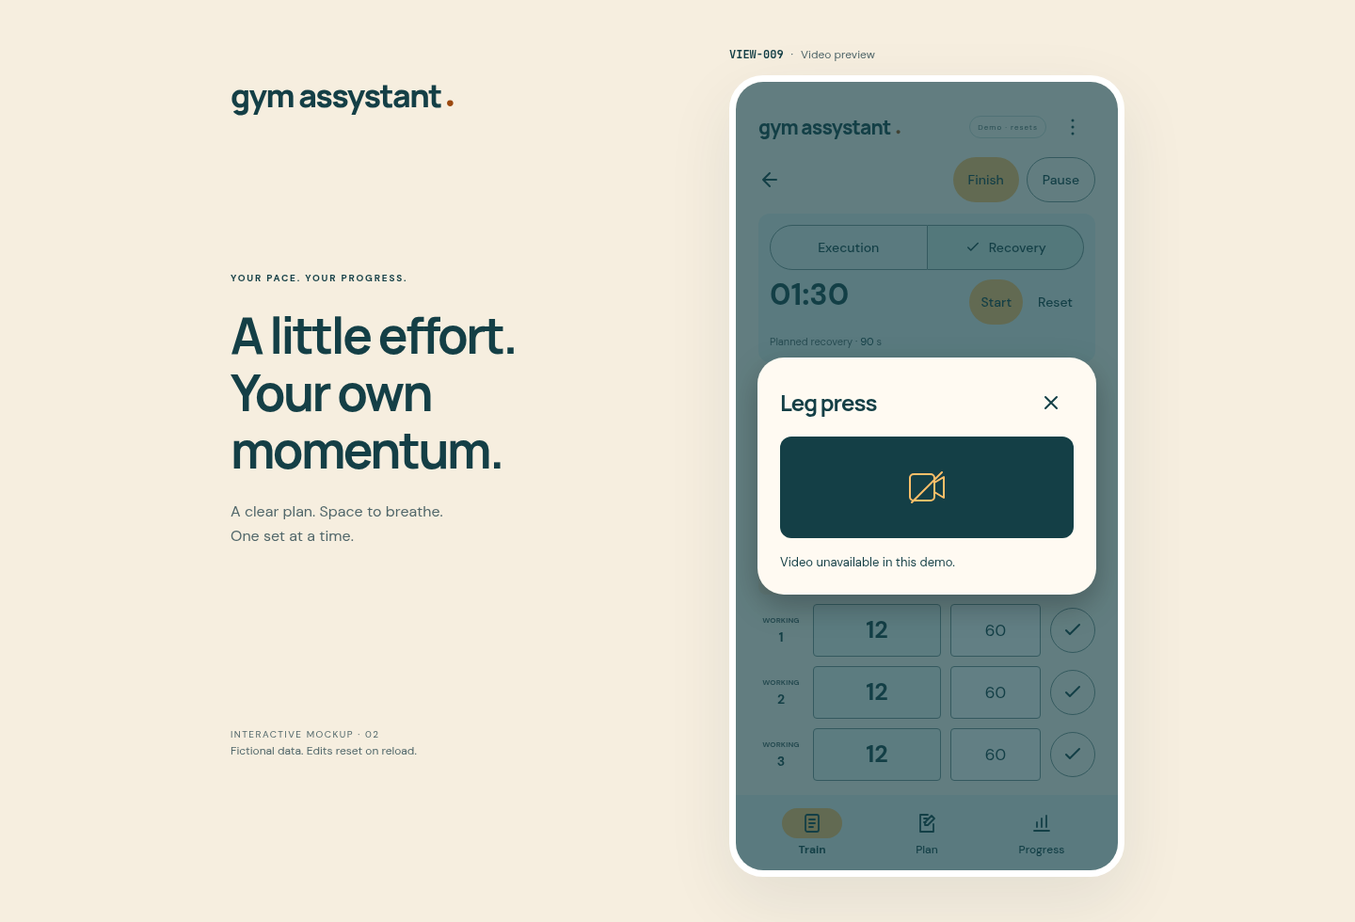
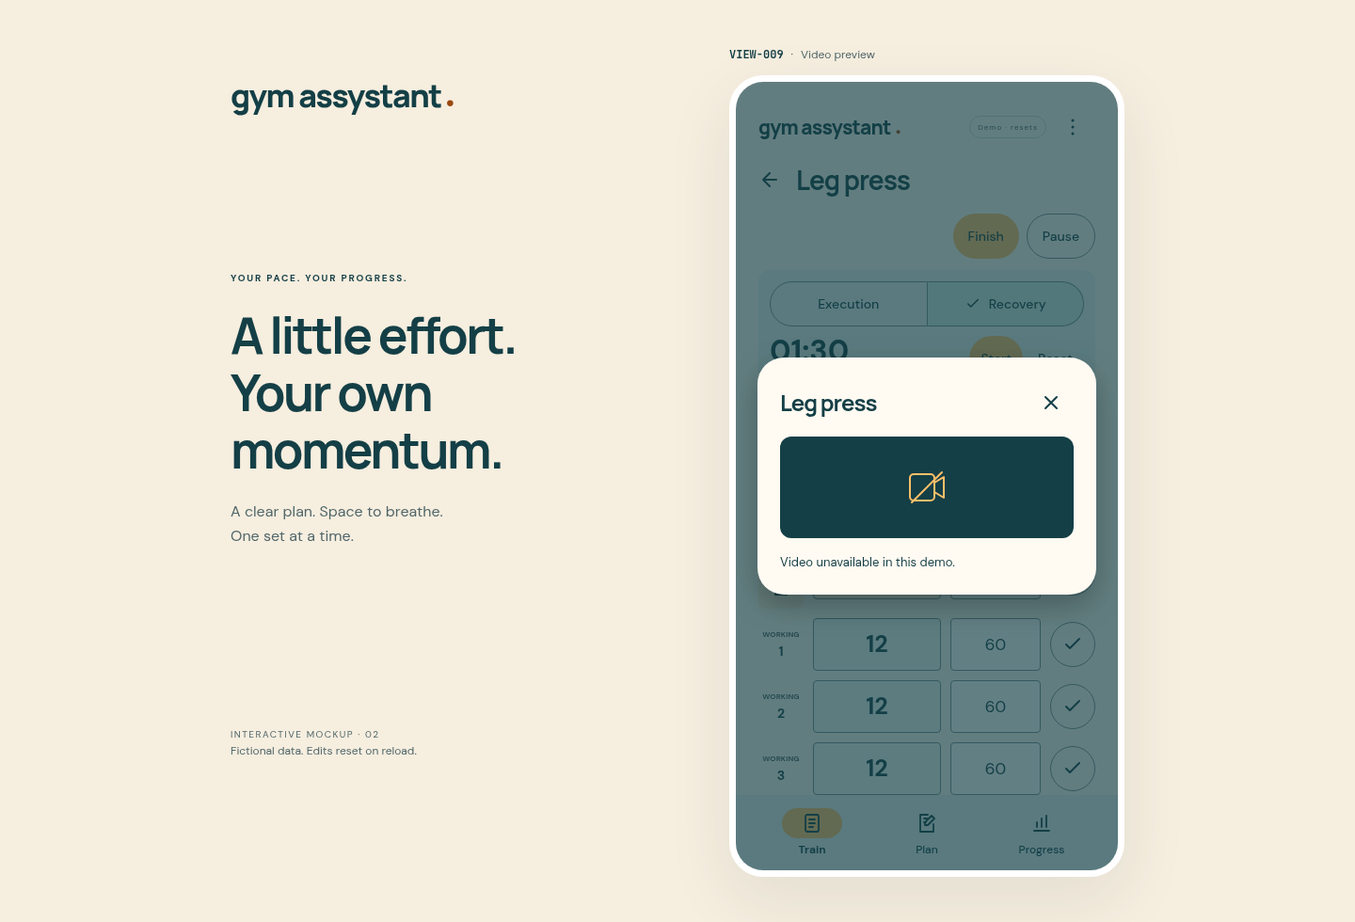
fix(mockup): put exercise name beside back arrow
Align VIEW-003 with the shared detail heading, keep lifecycle actions below
and omit their empty row for Ready sessions. Update specification, reverse
traceability and reviewed previews.

Refs: GYM-009, GYM-017
Validation: Chromium workflow suite; 320/390/430px heading and long-name
checks; light/dark and lifecycle previews; repository documentation links.

diff --git a/prototypes/web/index.html b/prototypes/web/index.html
@@ -19,9 +19,9 @@
 <div class="section-heading" data-req="GYM-016"><h3>Coming up</h3></div><div id="upcomingSessions" data-req="GYM-016"></div>
 </section>
 <section id="session" data-mockup-ref="VIEW-002" data-mockup-name="Session" data-view hidden data-req="GYM-001 GYM-008 GYM-019"><div class="secondary-heading" data-req="GYM-025"><button class="md-icon-button" id="backProgram" aria-label="Back to Train calendar"><svg class="button-icon" viewBox="0 0 24 24" aria-hidden="true" focusable="false"><path d="M19 12H5m7-7-7 7 7 7"/></svg></button><h2 id="sessionName"></h2></div><p class="muted" id="sessionFocus"></p><div class="session-start" data-req="GYM-017"><div class="session-actions"><button id="startSession" class="md-button md-filled">Start session</button><button id="finishSession" class="md-button md-filled" aria-label="Finish session" hidden>Finish</button><button id="pauseSession" class="md-button md-outlined session-pause" aria-label="Pause session" hidden>Pause</button></div><p id="sessionStatus" class="field-help" role="status">Ready</p></div><p id="attendanceStatus" class="field-help" data-req="GYM-020"></p><div class="section-heading"><h3>Exercises</h3><span id="sessionCount"></span></div><div id="exerciseList"></div><p id="executionOrderStatus" class="sr-only" role="status" data-req="GYM-019"></p></section>
-<section id="exercise" data-mockup-ref="VIEW-003" data-mockup-name="Exercise" data-view hidden data-req="GYM-001 GYM-009"><div class="exercise-navigation" data-req="GYM-017"><button class="md-icon-button" id="back" aria-label="Back to session"><svg class="button-icon" viewBox="0 0 24 24" aria-hidden="true" focusable="false"><path d="M19 12H5m7-7-7 7 7 7"/></svg></button><div class="exercise-session-actions"><span id="exerciseSessionStatus" class="field-help" hidden></span><button id="finishExerciseSession" class="md-button md-filled" aria-label="Finish session" hidden>Finish</button><button id="pauseExerciseSession" class="md-button md-outlined session-pause" aria-label="Pause session" hidden>Pause</button></div></div>
+<section id="exercise" data-mockup-ref="VIEW-003" data-mockup-name="Exercise" data-view hidden data-req="GYM-001 GYM-009"><div class="secondary-heading" data-req="GYM-009"><button class="md-icon-button" id="back" aria-label="Back to session"><svg class="button-icon" viewBox="0 0 24 24" aria-hidden="true" focusable="false"><path d="M19 12H5m7-7-7 7 7 7"/></svg></button><h2 id="exerciseName"></h2></div><div id="exerciseSessionActions" class="exercise-session-actions" data-req="GYM-009 GYM-017" hidden><span id="exerciseSessionStatus" class="field-help" hidden></span><button id="finishExerciseSession" class="md-button md-filled" aria-label="Finish session" hidden>Finish</button><button id="pauseExerciseSession" class="md-button md-outlined session-pause" aria-label="Pause session" hidden>Pause</button></div>
 <div class="timer-panel" data-req="GYM-012"><div class="timer-tabs" role="group" aria-label="Timer type"><button id="executionMode" class="md-segment" aria-pressed="true"><span class="segment-check"><svg class="button-icon" viewBox="0 0 24 24" aria-hidden="true" focusable="false"><path d="m5 12 4 4L19 6"/></svg></span>Execution</button><button id="recoveryMode" class="md-segment" aria-pressed="false"><span class="segment-check"><svg class="button-icon" viewBox="0 0 24 24" aria-hidden="true" focusable="false"><path d="m5 12 4 4L19 6"/></svg></span>Recovery</button></div><div class="timer-display"><output id="timerValue" aria-label="Execution elapsed time" aria-live="off">00:00</output><span id="timerStatus" class="sr-only" role="status">Ready</span></div><p id="recoverySettings" class="field-help" hidden>Planned recovery · <span id="recoverySeconds">90</span> s</p><div class="timer-actions"><button id="timerToggle" class="md-button md-filled">Start</button><button id="timerReset" class="md-button md-text">Reset</button></div><p class="field-help" id="timerContext">For this exercise · manual controls</p></div>
-<h2 id="exerciseName"></h2><p class="prescription" id="prescription" data-req="GYM-008"></p>
+<p class="prescription" id="prescription" data-req="GYM-008"></p>
 <div class="section-heading set-heading" data-req="GYM-004 GYM-005 GYM-014"><h3>Sets</h3><span id="setCount" aria-live="polite"></span><button id="addWarmup" class="md-button md-text" aria-label="Add warm-up set"><svg class="button-icon" viewBox="0 0 24 24" aria-hidden="true" focusable="false"><path d="M12 5v14M5 12h14"/></svg>Warm-up</button></div>
 <div class="set-labels" data-req="GYM-004 GYM-014"><span>SET</span><span>REPS</span><span>KG</span><span>DONE</span></div><div id="sets" data-req="GYM-004 GYM-005 GYM-014"></div>
 

diff --git a/prototypes/web/css/style.css b/prototypes/web/css/style.css
@@ -220,7 +220,6 @@ input::placeholder { color: var(--on-surface-variant); opacity: 1; }
 .session-actions { display: flex; flex-wrap: wrap; align-items: center; gap: 8px; }
 .session-actions #startSession { width: auto; flex: 1 1 170px; }
 .session-pause { flex-shrink: 0; }
-.exercise-navigation { display: flex; align-items: center; justify-content: space-between; gap: 12px; margin-bottom: 18px; }
 
 /* GYM-018: prescriptions and schedule editing have their own Plan destination. */
 .plan-input { display: block; width: 100%; margin-bottom: 18px; padding: 12px; border: 1px solid var(--outline); border-radius: 4px; color: var(--on-surface); background: var(--surface-bright); font-size: 14px; }
@@ -271,8 +270,7 @@ h2, h3, .exercise-card strong { overflow-wrap: anywhere; }
 .attendance-card .field-help:last-child { margin-bottom: 0; }
 
 /* GYM-017: both lifecycle actions fit narrow exercise screens. */
-.exercise-navigation { flex-wrap: wrap; }
-.exercise-session-actions { display: flex; flex-wrap: wrap; gap: 8px; margin-left: auto; }
+.exercise-session-actions { display: flex; justify-content: flex-end; gap: 8px; margin-bottom: 12px; }
 .session-actions #finishSession { flex: 1 1 170px; }
 /* GYM-017: preserve recorded-value contrast during read-only review. */
 .finished-review input:disabled { opacity: 1; }
@@ -286,7 +284,6 @@ h2, h3, .exercise-card strong { overflow-wrap: anywhere; }
 .session-start { margin-bottom: 12px; }
 #sessionStatus { font-size: 12px; margin-block: 10px 0; }
 #sessionFocus { margin-bottom: 16px; }
-.exercise-navigation { flex-wrap: nowrap; margin-bottom: 12px; }
 .exercise-session-actions { align-items: center; flex-wrap: nowrap; }
 .exercise-session-actions .md-button { padding-inline: 16px; }
 .exercise-session-actions .field-help { margin: 0; }
@@ -404,12 +401,11 @@ header { position: relative; z-index: 2; padding-bottom: 0; min-height: 48px; }
 .secondary-heading h2 { margin: 0; }
 @media (max-width: 350px) { header { gap: 4px; } .overflow-menu { right: 16px; } .header-actions { gap: 0; } }
 
-/* GYM-025: consistent secondary headings and explicit read-only presentation. */
+/* GYM-009, GYM-025: consistent Back/name headings and explicit read-only presentation. */
 .secondary-heading { justify-content: flex-start; gap: 4px; min-height: 48px; }
 .secondary-heading h2 { min-width: 0; flex: 1; }
 .page-heading.secondary-heading { gap: 4px; }
 .page-heading.secondary-heading .save-plan { flex-shrink: 0; }
-.exercise-navigation { margin-left: -12px; }
 .finished-review .set-row input:disabled, .finished-review .seat-input:disabled, .finished-review #recoverySeconds:disabled { border-color: transparent; background: transparent; }
 .set-status { display: grid; place-items: center; width: 48px; height: 48px; color: var(--on-surface-variant); font-size: 20px; }
 .set-status.is-complete { color: var(--success); }

diff --git a/prototypes/web/js/app.js b/prototypes/web/js/app.js
@@ -148,13 +148,14 @@ function renderSets() {
   byId('sets').innerHTML = exercise().warmups.map((set, index) => setRow(set, index, 'warmups')).join('') + exercise().sets.map((set, index) => setRow(set, index, 'sets')).join('');
   if (session().state === 'finished') byId('sets').querySelectorAll('input,button').forEach(control => { control.disabled = true; });
 }
-// GYM-001, GYM-003, GYM-008, GYM-012
+// GYM-001, GYM-003, GYM-008, GYM-009, GYM-012, GYM-017
 function renderExercise() {
   byId('exercise').classList.toggle('finished-review', session().state === 'finished');
   byId('exerciseName').textContent = exercise().name;
   byId('prescription').textContent = `Target: ${exercise().sets.length} sets × ${exercise().target} reps`;
   byId('back').innerHTML = buttonIcon('back');
   byId('back').setAttribute('aria-label', `Back to ${session().name}`);
+  byId('exerciseSessionActions').hidden = session().state === 'ready';
   byId('exerciseSessionStatus').textContent = GymSession.labels[session().state];
   byId('exerciseSessionStatus').hidden = !['paused', 'finished'].includes(session().state);
   byId('pauseExerciseSession').hidden = session().state !== 'inProgress';

diff --git a/docs/product/traceability.md b/docs/product/traceability.md
@@ -1,8 +1,8 @@
 # Bidirectional traceability
 
-Revision 19. All Android delivery is **not started**. “Covered” below means the disposable mockup meets the acceptance criteria in [spec.md](spec.md), not that the Android product is implemented. Search a requirement ID in source comments or `data-req` attributes to trace code back to scope.
+Revision 20. All Android delivery is **not started**. “Covered” below means the disposable mockup meets the acceptance criteria in [spec.md](spec.md), not that the Android product is implemented. Search a requirement ID in source comments or `data-req` attributes to trace code back to scope.
 
-Revision 19 improves the GYM-010 plot presentation in VIEW-007; the labelled plot, point inspection and dense-date panning are verified in the mockup. Revision 18 fixed the selected-day card dimensions in VIEW-001 under GYM-016. Revision 17 introduced external view references, planned recovery, drag-handle sorting and deliberate plan changes. The reference strip is mockup presentation only; native delivery remains not started.
+Revision 20 refines the GYM-009 exercise heading in VIEW-003: the exercise name sits beside Back, with session actions and timers below. Revision 19 improves the GYM-010 plot presentation in VIEW-007; the labelled plot, point inspection and dense-date panning are verified in the mockup. Revision 18 fixed the selected-day card dimensions in VIEW-001 under GYM-016. Revision 17 introduced external view references, planned recovery, drag-handle sorting and deliberate plan changes. The reference strip is mockup presentation only; native delivery remains not started.
 
 | Requirement | Source anchors / artifact | Verification | Mockup state |
 | --- | --- | --- | --- |
@@ -14,7 +14,7 @@ Revision 19 improves the GYM-010 plot presentation in VIEW-007; the labelled plo
 | GYM-006 | `index.html`: phone-owned dialog shells/cards; `dialogs.js`: native modal opening and resize/scroll alignment; `style.css`: clipped phone scrim and scrollable cards; `references.js`: presentation observer; `index.html`: external strip and stable view metadata; `app.js`: `showView`/video/activation opening; `settings.js`: folder opening | Browser: all 12 stable references, popup priority/restoration, external selectable strip, language/theme/reload invariance; desktop/phone popup bounds, short-height internal scrolling, native focus/Escape/scrim dismissal and trigger return; 320/390/430px, focus/navigation, reload reset, no page errors | Covered |
 | GYM-007 | `index.html`: browser title, wordmarks | Browser: title and visible branding | Covered |
 | GYM-008 | `data.js`: program/session/prescription; `app.js`: `renderProgram`, `openSession`; `index.html`: program/bottom navigation | Browser: three session templates, distinct ordering and rep targets | Covered; template editing in GYM-018 |
-| GYM-009 | `index.html`: exercise order; CSS: set widths/font sizes | Browser: reps first, set log before secondary video; screenshot review confirms timer at the top | Covered |
+| GYM-009 | `index.html`: shared Back/name heading and exercise order; `app.js`: conditional lifecycle row; CSS: heading wrapping, set widths/font sizes | Browser: heading aligned beside Back before timers at 320/390/430px, Ready omits action row, reps first, set log before secondary video; screenshot review | Covered |
 | GYM-010 | `metrics.js`: `series`, `countSets`; `data.js`: historical records/context; `app.js`: `renderProgress`, `selectProgressObservation`, chart click/keyboard handlers; `charts.js`: `layout`, `render`; `index.html`: progress/readout/plot; CSS: axes, point targets and internal timeline | Logic: exact expected metrics, comparison filters, gaps, warm-up exclusion, elapsed-date positions, zero-based scale and broken segments; browser: touch/keyboard inspection, retained dates across metrics, fractional values, null/empty history, dense panning/non-overlapping targets, light/dark narrow layouts and unchanged history/attendance/exports | Fictional historical statistics covered; real persistence deferred |
 | GYM-011 | [progression-research.md](../research/progression-research.md) | Literature review: eight original studies/reviews with limitations and proposed/included metrics | Research delivered |
 | GYM-012 | `plan.js`: prescription duration validation/snapshot; `app.js`: planned recovery field and occurrence timer creation; `timers.js`: timer state/actions; `app.js`: `renderTimer`, interval/actions; `index.html`: timer panel | Logic: pause/resume/reset, expiry/background catch-up, independence, planned bounds/legacy default, snapshot retention; browser: saved draft targets, protected versus untouched workouts, read-only execution duration, both timer modes/completion | Covered; native background/alerts deferred |
@@ -42,6 +42,7 @@ JavaScript filenames above are under `prototypes/web/js/`; `index.html` is under
 | Plan templates, calendar cards, targets, ordered exercises, back navigation | GYM-001, GYM-008 |
 | Video text button and placeholder dialog | GYM-002, GYM-006 |
 | Setup input and per-occurrence note state | GYM-003 |
+| Exercise Back/name heading, conditional lifecycle row and logging-first screen order | GYM-009, GYM-017 |
 | Shared set list, prominent reps, kg validation, done controls/counts | GYM-004, GYM-005, GYM-009 |
 | Warm-up labels/tint, add/remove controls, separate data semantics | GYM-014 |
 | Metric selector, labelled/tappable dated plot, scale/segments, selection readout, internal panning, counts and context/gaps | GYM-010 |
@@ -109,3 +110,5 @@ Revision 17, 2026-10-13: specified the external view references, per-exercise pl
 Revision 18, 2026-10-13: updated GYM-016 before applying a 224px selected-day card with responsive width and a reserved 48px action row. The Chromium suite passed with equal planned/rest/future card dimensions and calendar positions at 320/360/390/430px, plus long saved names/focus, action containment, no horizontal overflow and light/dark checks at 320/390/430px and desktop. Full accessible text is retained; empty days still have no action. Refreshed and visually reviewed the light/dark training and empty-day previews and desktop Train. Documentation links and whitespace checks pass; data/timer logic and native Android delivery remain unchanged.
 
 Revision 19, 2026-10-13: updated GYM-010 before replacing the small static bars with a labelled 180px dated plot and point inspection. All 35 logic checks and the Chromium suite passed. Verified civil-date positions, zero-based scales, line breaks at unavailable values, empty/single/zero cases, touch/keyboard readouts and pressed state, full dates retained across metrics, decimal precision, internal dense-date panning with a swipe hint, and non-overlapping 48px sample/dense targets. The full plot fits on entry at 390×844; both themes and 320/390/430px layouts retain page width. Original histories, attendance and exported metrics remain unchanged. Visually reviewed/refreshed eight Progress previews, including isolated missing/empty fixtures. Native Android chart delivery remains not started.
+
+Revision 20, 2026-10-13: refined GYM-009 before moving the exercise name beside Back in VIEW-003. Chromium checks passed for title/Back alignment before timers, long-name wrapping and 48px controls at 320/390/430px, conditional Ready/active action rows, and the full session/logging/navigation regression suite. Three working rows still fit in both timer modes at 390×844. Reviewed Ready, active, paused and finished states, both themes, narrow layouts and phone-contained video overlays; refreshed seven affected previews and added a Ready example. No data contract or metric calculation changed. Native delivery remains not started.

diff --git a/docs/product/spec.md b/docs/product/spec.md
@@ -1,6 +1,6 @@
 # gym assystant — draft specification
 
-Status: revision 19, for exploration. Only a disposable browser mockup is authorized. Android implementation starts after the user decides the scope. Mockup coverage does not mean a production requirement is implemented.
+Status: revision 20, for exploration. Only a disposable browser mockup is authorized. Android implementation starts after the user decides the scope. Mockup coverage does not mean a production requirement is implemented.
 
 ## Purpose
 
@@ -18,7 +18,7 @@ Follow a training program made of multiple training sessions. During each sessio
 | GYM-006 | Explore a responsive dummy mockup. | Narrow phone and desktop layouts, visible prototype disclosure, keyboard access and focus restoration. All app-owned popups, including video and folder dialogs, stay within the simulated phone display on desktop and mobile. Modal cards are centered in that display with at least 16px edge spacing; only the phone is dimmed, and the surrounding presentation stays undimmed. Long dialog content scrolls inside the card rather than escaping the phone. Retain native modal focus trapping, Escape/close/backdrop dismissal and trigger focus restoration; adapt to resize and page scrolling without changing app data. The overflow menu remains anchored inside the phone header. These are production-style mockup presentations, not native Android delivery. Edits and timers are in memory and reset on reload; statistics are labeled fictional history. |
 | GYM-007 | Name the app gym assystant. | Browser title and visible branding use this exact spelling. |
 | GYM-008 | Center the app on a training program containing sessions. | Home identifies the active program; its session templates are accessible through the calendar and upcoming agenda. The initial sample still has three distinct templates. Each defines ordered exercises, number of sets, and target rep ranges. Selecting a session shows those prescriptions separately from actual logged sets. Train, Plan, and Progress are persistent bottom navigation destinations; Settings is reached through the top-right overflow menu. Train opens dated workouts; Plan edits their reusable templates. |
-| GYM-009 | Prioritize performance logging. | Exercise screen order: back navigation, compact execution/recovery timers at the top, exercise and prescribed target, one combined warm-up/working-set list with reps/weight controls and an inline Add warm-up action, machine setup, small video button. Set controls are visible before video access at mobile width. |
+| GYM-009 | Prioritize performance logging. | VIEW-003 starts with the exercise name beside the Back arrow in the same heading row. Session status/actions, when applicable, occupy a separate row below the heading; Ready has no empty action row. Compact execution/recovery timers follow at the top, then the prescribed target, one combined warm-up/working-set list with reps/weight controls and an inline Add warm-up action, machine setup, and a small video button. The exercise name appears only once and wraps within the phone width; Back retains its 48px touch target. Set controls are visible before video access at mobile width. |
 | GYM-010 | Show training performance statistics. | A Progress view lets the user select an exercise and metric. Lead with dated history for best reps at a fixed weight, heaviest weight at exactly 10 reps, and volume load; also retain completed working-set count for the displayed period in “How to compare”. Values are computed from explicit fictional completed logs, not hardcoded chart labels. No comparable data means a gap, not zero. Use a larger trend plot with a labelled zero-based value axis, units and readable actual dates. Horizontal positions reflect elapsed civil days rather than equal spacing for irregular sessions. Connect only consecutive comparable observations; leave missing data as a visible gap. Tap a session point to show its exact value and full date in the card; give points 48px non-overlapping targets, use internal horizontal panning for closely spaced dates while keeping the value axis visible, and provide keyboard access (Enter/Space, left/right navigation). Selection has a visible ring and pressed semantics, and switching metrics retains the selected date when available. Show explicit empty/unavailable states instead of a blank plot or invented zero. Keep the entire plot visible on entry at 390×844; do not require hovering or a popup. Details and comparison rules are available in “How to compare”. |
 | GYM-011 | Research progression metrics before finalizing analytics. | A linked literature brief distinguishes outcomes, workload, and consistency; cites original research and evidence syntheses; records limitations, formulas, and proposed versus included metrics. Research recommendations do not automatically authorize features. |
 | GYM-012 | Time execution and recovery separately. | Execution counts up; recovery counts down from the selected planned exercise's recovery duration (whole seconds, 1–3600; default 90). Set this duration in Plan → plan session → exercise prescription and save it with the plan; the workout displays it read-only. New or untouched previews use the saved prescription, while protected dated workouts retain their original duration through later edits, plan switching and exercise reordering. Each has start/resume, pause, and reset. Recovery stops at zero and announces completion. Timers use elapsed clock time, retain independent state when switching modes/views, and belong to the selected exercise occurrence. Reload resets them. No automatic set completion or automatic transition. |

diff --git a/docs/reviews/interface-review.md b/docs/reviews/interface-review.md
@@ -118,3 +118,9 @@ The [default plot](previews/progress.png), [weight plot](previews/progress-weigh
 Each point has a 48px target. Dense dates pan inside the chart with a swipe hint and a fixed visible value axis, preserving date spacing without overlapping targets or horizontal page overflow. [Unavailable observations](previews/progress-gap.png) remain gaps; [empty history](previews/progress-empty.png) shows a clear message. These two captures use isolated fictional fixtures in the capture browser, not changes to the repository's default history. The [attendance panel](previews/attendance.png) retains its separate semantics and values.
 
 All 35 logic checks and the Chromium suite passed, including irregular-date geometry, zero versus missing data, line breaks, empty/single series, touch/keyboard point inspection, selected dates across metrics, decimal values, dense-date panning, 48px non-overlapping targets, light/dark 320/390/430px layouts and unchanged raw history/attendance/exports. Visually inspected and refreshed the eight affected previews. Android implementation remains not started.
+
+## Revision 20: exercise name beside Back in VIEW-003
+
+Moved the exercise name into the shared heading beside the 48px Back arrow, before the timer. The separate heading below the timer is removed. Session actions sit below the heading; Ready omits that row entirely. Long names wrap within the phone width without shrinking the Back target.
+
+Reviewed [Ready](previews/exercise-ready.png), [active logging](previews/exercise.png), [dark logging](previews/exercise-dark.png), [recovery](previews/recovery.png) and [finished review](previews/finished-log.png), plus paused and 320/430px captures. Refreshed the seven affected existing previews, including the [desktop video overlay](previews/video-desktop-contained.png), and added the Ready preview. The Chromium suite checks heading alignment/order, long-name containment, Ready/active action-row visibility, touch targets and existing session workflows. Three working rows remain visible in both timer modes at 390×844.

diff --git a/docs/design/android-ui.md b/docs/design/android-ui.md
@@ -47,3 +47,5 @@ Revision 13 enlarges every expand/collapse affordance: a full-width row with min
 Revision 16 confines app-owned modal presentation to the simulated phone display. Each native browser dialog supplies modal focus/Escape semantics, but its outer surface matches the phone's inner bounds and acts as the scrim; the page-wide native backdrop is transparent. A centered card with 16px minimum edge spacing scrolls internally on short displays, with shadows clipped to the phone. Resize/page-scroll observers retain alignment. This models the app window on desktop rather than centering the popup over the entire presentation. Native Android components remain future delivery.
 
 Revision 19 improves VIEW-007 with a 180px plot, 12px axis/date labels, a 14px metric heading and a live selected-date/value readout. Touch targets are 48px and keep their spacing through internal panning for dense dates; the value axis stays visible. Arrow keys and native Enter/Space activation provide keyboard inspection without a popup. These are browser plot controls; future native chart implementation remains undecided.
+
+Revision 20 uses the shared secondary heading in VIEW-003: a 48px Back button beside the exercise name, which wraps within the available width. Session actions sit on their own row below, omitted for Ready; timers follow before the prescribed target and set log. This keeps navigation and the screen title consistent with other detail views.
